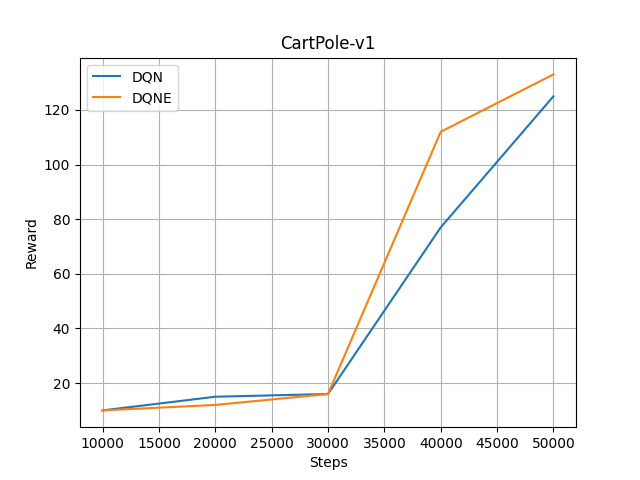
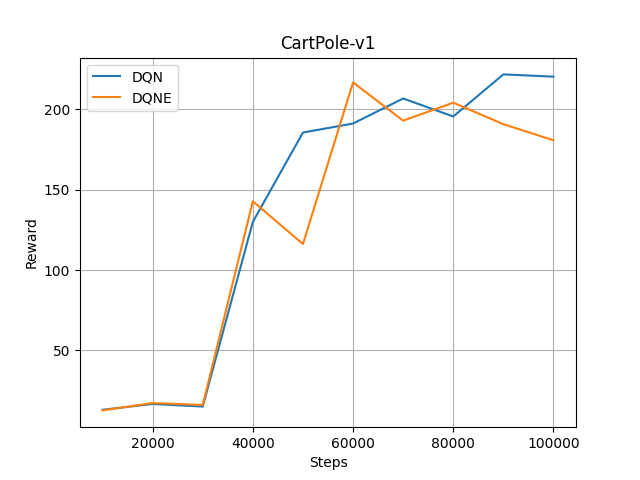
Update charts

diff --git a/main.py b/main.py
@@ -10,10 +10,9 @@ import matplotlib.pyplot as plt
 results = {}
 
 for env_name in ["CartPole-v1", "LunarLander-v3"]:
-    for timesteps in range(10_000, 60_000, 10_000):
+    for timesteps in range(10_000, 110_000, 10_000):
         for algo in ["DQN", "DQNE"]:
             seeds = [42, 137, 256, 512, 999]
-            seeds = [42]
             total_train_reward = 0.0
 
             for seed in seeds:
